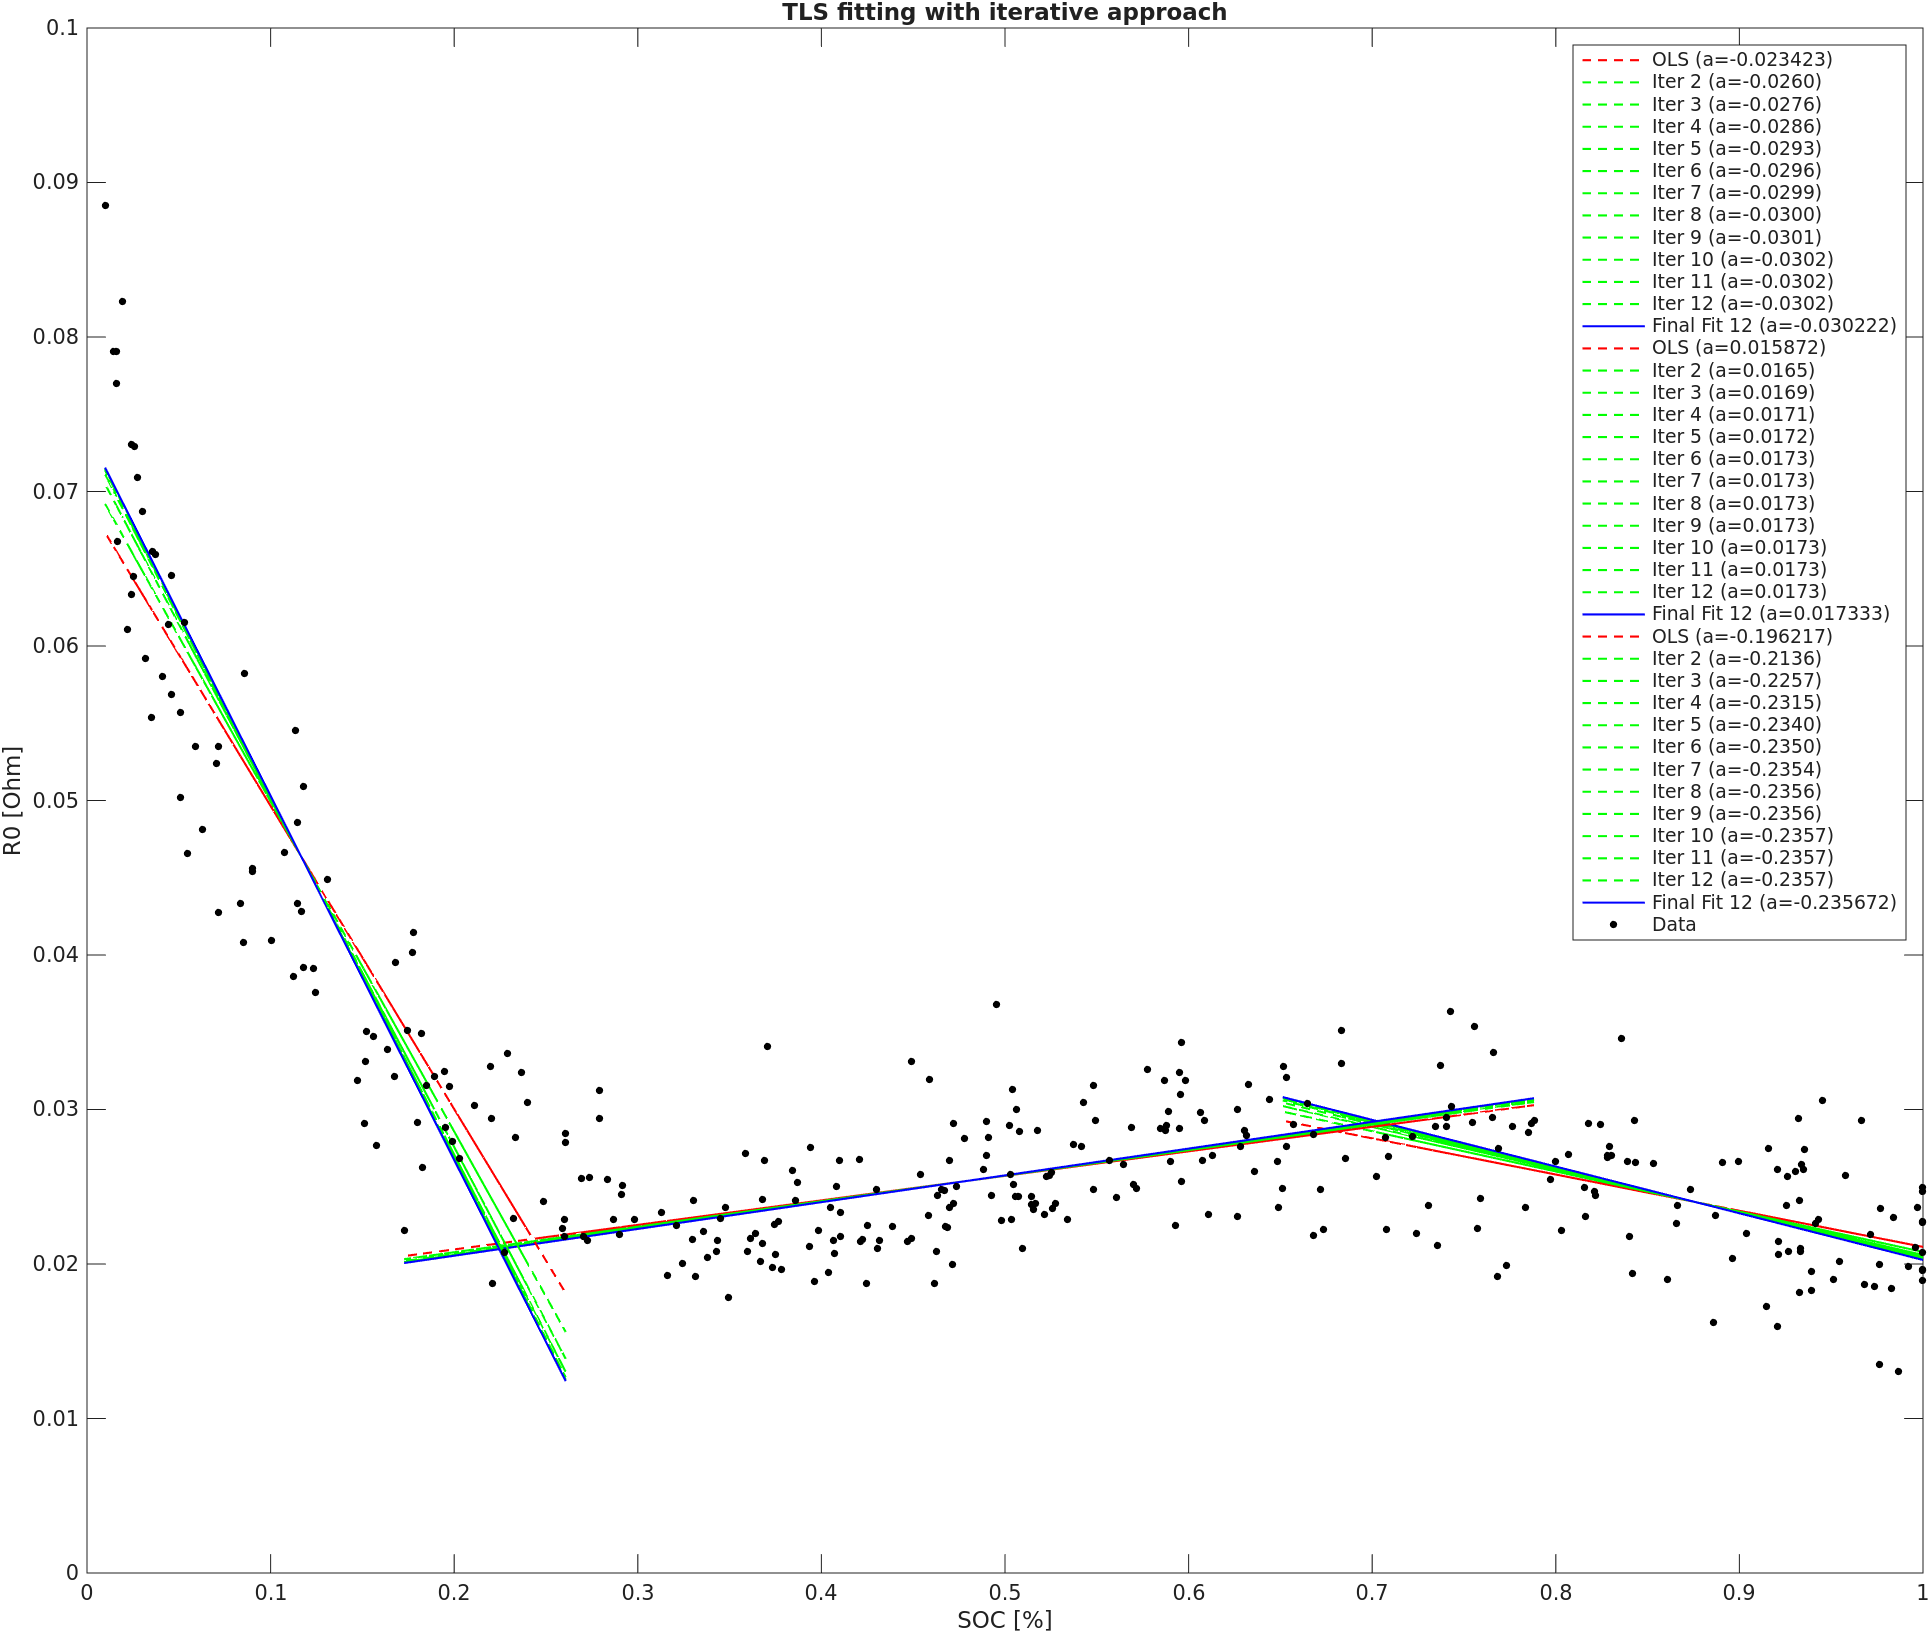
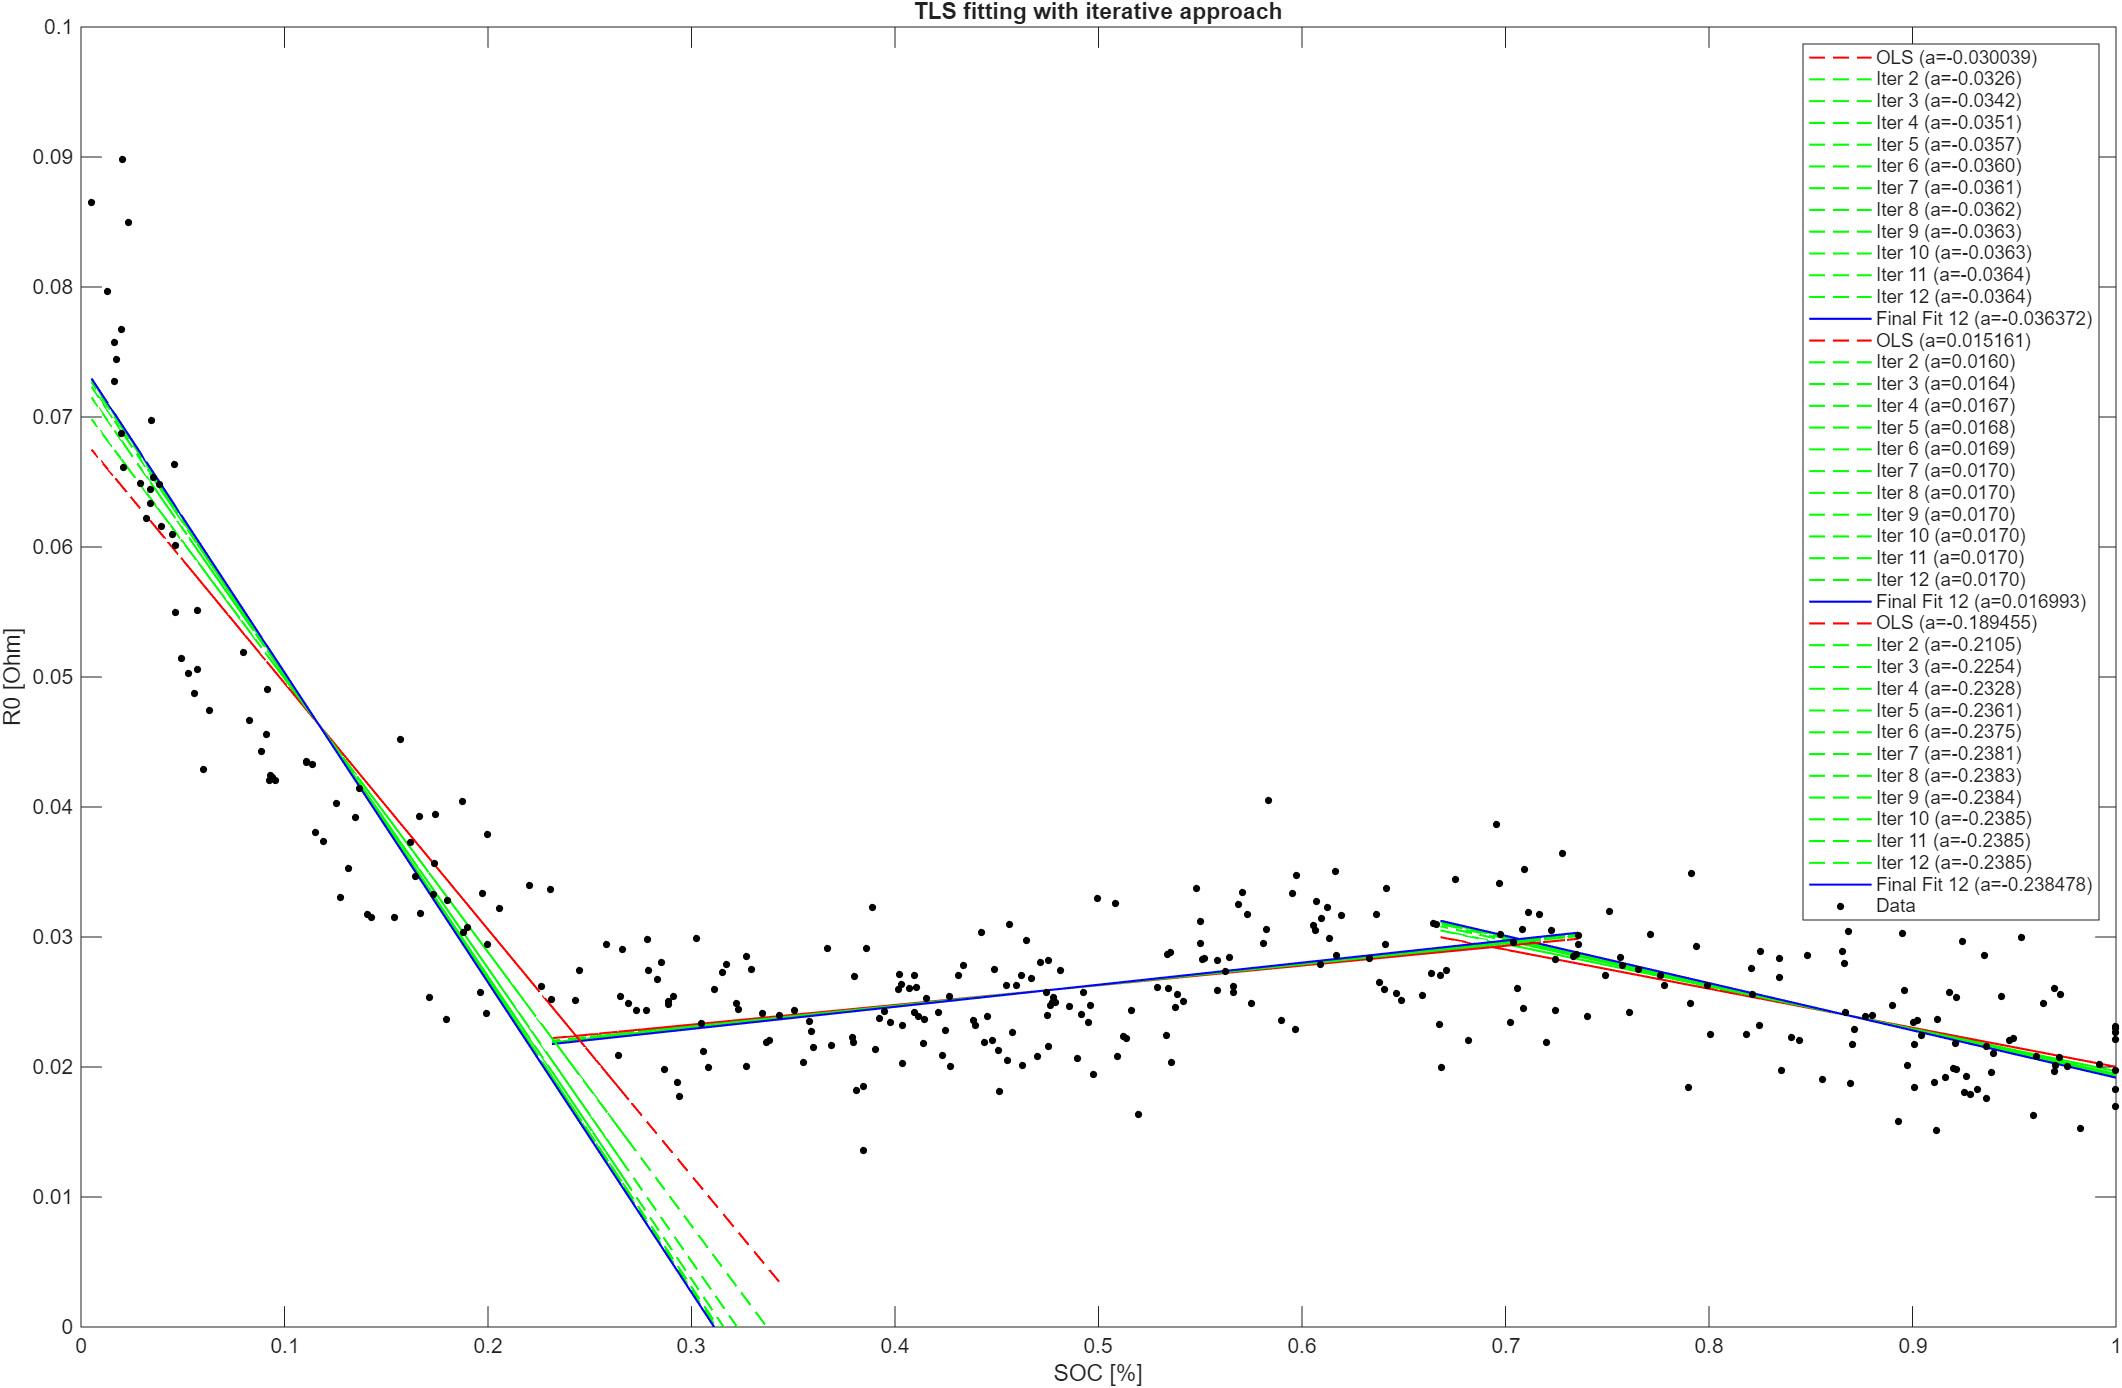
Improved plots. Removed old .py generator. Added new R0 true plot.

diff --git a/src/TLS_svd.m b/src/TLS_svd.m
@@ -157,11 +157,11 @@ for block_idx = 1:N_blocks
 
     % Plot SVD (ok)
     y_fit = a_weighted * x_seg + b_weighted;
-    plot(x_seg, y_fit, [colors(2)], LineWidth=2, DisplayName=sprintf('Block %d: WHITENED(a=%.6f)', block_idx, a_weighted)); hold on;
+    plot(x_seg, y_fit, [colors(2)], LineWidth=1, DisplayName=sprintf('Block %d: WHITENED(a=%.6f)', block_idx, a_weighted)); hold on;
 
     % Plot SVD (wrong one)
     y_fit = a_unweighted * x_seg + b_unweighted;
-    plot(x_seg, y_fit, [colors(1) '--'], LineWidth=2, DisplayName=sprintf('Block %d UNWHITENED (a=%.6f)', block_idx, a_unweighted)); hold on;
+    plot(x_seg, y_fit, [colors(1) '--'], LineWidth=1, DisplayName=sprintf('Block %d UNWHITENED (a=%.6f)', block_idx, a_unweighted)); hold on;
     
     % Info printing
     fprintf('Final svd_w SVD Model: y = %.4fx + %.4f\n', a_unweighted, b_unweighted);
@@ -169,11 +169,11 @@ for block_idx = 1:N_blocks
 end
 
 % Plot data points
-plot(use_data_soc_meas, use_data_r0_meas, 'ko', 'DisplayName', 'Data', 'MarkerFaceColor', 'k', 'MarkerSize', 3);
+plot(use_data_soc_meas, use_data_r0_meas, 'ko', 'DisplayName', 'Data', 'MarkerFaceColor', 'k', 'MarkerSize', 2);
 
 % Finishing up the plot
 legend show;
-title('TLS fitting with with SVD method');
+title('TLS fitting with SVD method');
 ylabel('R0 [Ohm]');
 xlabel('SOC [%]');
 
@@ -204,6 +204,7 @@ plot(use_data_soc_true, R0_approx_svd_w_adv,    DisplayName='SVD whitened (adv)'
 legend show;
 ylabel('R0 [Ohm]');
 xlabel('SOC [%]');
+title('SVD methods comparison');
 
 %%%%%%%%%%%%%%%%%%%% 7) Final results %%%%%%%%%%%%%%%%%%%%
 

diff --git a/src/dataset_generator.m b/src/dataset_generator.m
@@ -257,7 +257,15 @@ grid on;
 
 linkaxes([ax1, ax2, ax3], 'x');
 
-% Std deviation calculation (thanks to the know value)
+% Plot True R0
+figure('Position', [100, 100, 1000, 800]);
+plot(data_soc, data_r0_true, Color='blue', LineWidth=2);
+ylabel('R0 [Ohm]');
+xlabel('SOC [%]');
+ylim([0, 0.1]);
+title("R0 non linearity")
+
+% Std deviation calculation (thanks to the know value) and plotting
 diff_soc = use_data_soc_true - use_data_soc_meas;
 diff_squared_soc = diff_soc.^2;
 NOISE_STD_DEV_SOC = sqrt(mean(diff_squared_soc));
